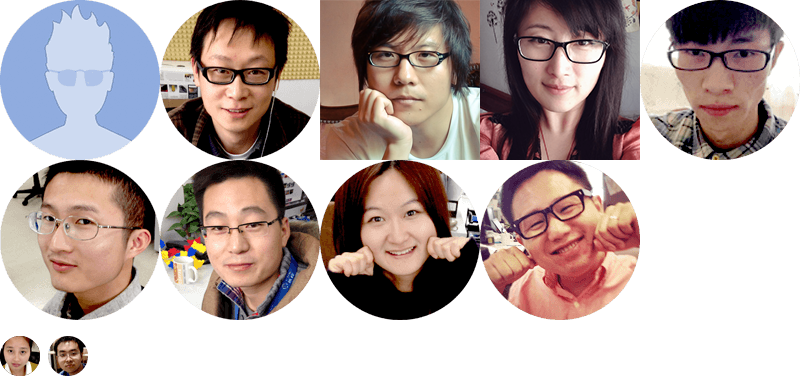
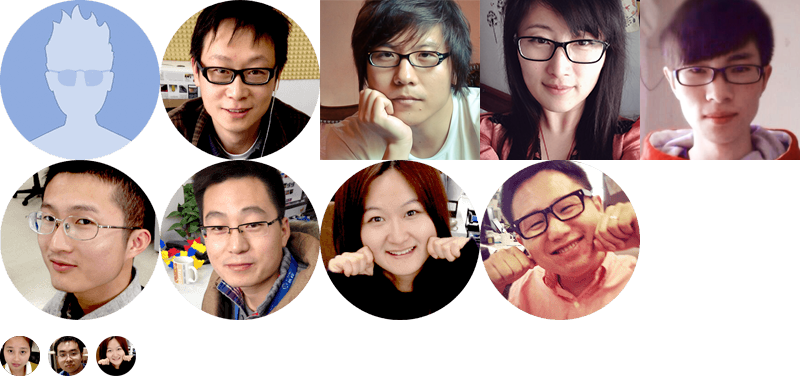
样式：About头像微调

Changed region(s): [[0.7812, 0.0, 1.0, 0.4375], [0.0938, 0.875, 0.1875, 1.0]]

diff --git a/app/styles/intro.css b/app/styles/intro.css
@@ -32,10 +32,10 @@ a:hover { color: rgba(255,255,255,1); }
 .tryonline { background: #ffdd6c; }
 .getmobile  { background: #eb6c59; }
 .online h3, .mobile h3 { position: absolute; top: 50%; -webkit-transform: translateY(-50%); transform: translateY(-50%); padding: 0 10%; font-size: 48px; font-weight: 100; color: rgba(255,255,255,0.5); text-align: center; }
-.online h3 em, .mobile h3 em { display: block; font-style: normal; font-size: 72px; color: rgba(255,255,255,1); }
-.online .pic-online, .mobile .pic-mobile { position: absolute; left: 50%; top: 50%; -webkit-transform: translateY(-50%); transform: translateY(-50%); background-position: center center; background-repeat: no-repeat; }
-.online .pic-online { width: 753px; height: 100%; background-image: url(../images/intro-online.png); background-size: 753px auto; }
-.mobile .pic-mobile { width: 640px; height: 100%; background-image: url(../images/intro-mobile.png); background-size: 640px auto; }
+.online em, .mobile em { display: block; font-style: normal; font-size: 72px; color: rgba(255,255,255,1); }
+.online .pic-online, .mobile .pic-mobile { position: absolute; left: 50%; top: 50%; -webkit-transform: translateY(-50%); transform: translateY(-50%); width: 50%; height: 100%; background-position: left center; background-repeat: no-repeat; }
+.online .pic-online { background-image: url(../images/intro-online.png); background-size: 753px auto; }
+.mobile .pic-mobile { background-image: url(../images/intro-mobile.png); background-size: 640px auto; }
 
 /* About */
 .about { padding: 0 10%; background-color: #45bc7a; }
@@ -43,6 +43,7 @@ a:hover { color: rgba(255,255,255,1); }
 .team-member li { float: left; width: 300px; padding: 10px 0; }
 .team-member .person-avatar { display: inline-block; vertical-align: middle; width: 80px; height: 80px; background-color: #ddd; background-image: url(../images/un-team.png); background-repeat: no-repeat; background-size: 400px auto; border-radius: 50%; border: 2px solid #fff; }
 .team-member .person-info { display: inline-block; vertical-align: middle; margin-left: 20px; }
+.team-member li:nth-child(1) .person-avatar { background-position: -240px -80px; }
 .team-member li:nth-child(2) .person-avatar { background-position: -80px 0; }
 .team-member li:nth-child(3) .person-avatar { background-position: -160px 0; }
 .team-member li:nth-child(4) .person-avatar { background-position: -240px 0; }
@@ -50,17 +51,12 @@ a:hover { color: rgba(255,255,255,1); }
 .team-member li:nth-child(6) .person-avatar { background-position: 0 -80px; }
 .team-member li:nth-child(7) .person-avatar { background-position: -80px -80px; }
 .team-member li:nth-child(8) .person-avatar { background-position: -160px -80px; }
-.team-member li:nth-child(1) .person-avatar { background-position: -240px -80px; }
-.person-name { font-size: 20px; }
-.person-job { font-size: 12px; }
-.team-nonmember { margin-top: 30px; }
-.team-title { margin-bottom: 30px; font-size: 20px; }
-.team-nonmember li { padding: 5px 0; }
-.team-nonmember .person-avatar { display: inline-block; width: 40px; height: 40px; margin-right: 20px; background-color: #ddd; background-image: url(../images/un-team.png); background-repeat: no-repeat; border-radius: 50%; border: 1px solid #fff; vertical-align: middle; }
-.team-nonmember li:nth-child(2) .person-avatar { background-position: 0 -336px; }
-.team-nonmember li:nth-child(1) .person-avatar { background-position: -48px -336px; }
-.team-nonmember .person-name { display: inline-block; width: 100px; margin-right: 10px; font-size: 16px; }
-.team-nonmember .person-job { margin-right: 10px; }
+.team-member .person-name { font-size: 20px; }
+.team-member .person-job { font-size: 12px; }
+.team-nonmember { padding-left: 104px; line-height: 16px; overflow: hidden; }
+.team-nonmember dt { float: left; width: 80px; margin-left: -104px; padding: 5px 0; font-size: 20px; text-align: center; }
+.team-nonmember dd { float: left; margin-right: 20px; padding: 5px 0; }
+.team-nonmember .person-name { font-size: 16px; }
 
-.donate { padding: 2em 0; font-size: 24px; }
+.donate { position: absolute; bottom: 0; padding: 2em 0; font-size: 24px; }
 .donate a { font-size: 20px; }

diff --git a/app/intro.html b/app/intro.html
@@ -54,7 +54,7 @@
 			<div class="person-avatar"></div>
 			<div class="person-info">
 				<div class="person-name">Lei Kuo</div>
-				<div class="person-job">Project Manager/Team Leader</div>
+				<div class="person-job">Project Manager / Team Leader</div>
 			</div>
 		</li>
 		<li>
@@ -69,7 +69,7 @@
 			<div class="person-avatar"></div>
 			<div class="person-info">
 				<div class="person-name">Lily Xue</div>
-				<div class="person-job">HTML/CSS Developer/UX/UI</div>
+				<div class="person-job">HTML/CSS Developer / UX / UI</div>
 				<i class="fa fa-weibo"></i> <a href="http://weibo.com/lilyxue" target="_blank">点头猪</a>
 			</div>
 		</li>
@@ -95,32 +95,24 @@
 				<div class="person-job">Android Developer</div>
 			</div>
 		</li>
-		<li>
-			<div class="person-avatar"></div>
-			<div class="person-info">
-				<div class="person-name">Flea</div>
-				<div class="person-job">Design Consultant</div>
-				<i class="fa fa-weibo"></i> <a href="http://weibo.com/catflea" target="_blank">iflea</a>
-			</div>
-		</li>
 	</ul>
-	<div class="team-nonmember">
-		<div class="team-title">Credits:</div>
-		<ul>
-			<li>
-				<span class="person-avatar"></span>
-				<strong class="person-name">Yanghe Liu</strong>
-				<i class="fa fa-weibo"></i> <a href="http://weibo.com/mewjerry" target="_blank">不编程不舒服斯基</a>
-			</li>
-			<li>
-				<span class="person-avatar"></span>
-				<strong class="person-name">Xianqin Zhu</strong>
-				<i class="fa fa-weibo"></i> <a href="http://weibo.com/u/1867165890" target="_blank">happy奔向未来</a>
-			</li>
-		</ul>
-	</div>
+	<dl class="team-nonmember">
+		<dt>Credits:</dt>
+		<dd>
+			<span class="person-name">Yanghe Liu</span>
+			<a href="http://weibo.com/mewjerry" title="不编程不舒服斯基" class="fa fa-weibo" target="_blank"></a>
+		</dd>
+		<dd>
+			<span class="person-name">Flea</span>
+			<a href="http://weibo.com/catflea" title="iflea" class="fa fa-weibo" target="_blank"></a>
+		</dd>
+		<dd>
+			<span class="person-name">Xianqin Zhu</span>
+			<a href="http://weibo.com/u/1867165890" title="happy奔向未来" class="fa fa-weibo" target="_blank"></a>
+		</dd>
+	</dl>
 	<div class="donate">
-		<i class="fa fa-coffee"></i> <a href="https://qr.alipay.com/ap27zqsxo3v5q61z1f" target="_blank">Buy me a coffee!</a> (੭ु๑‾᷄ ⁻̫ ‾᷅)੭ु⁾⁾
+		<i class="fa fa-coffee"></i> <a href="https://qr.alipay.com/ap27zqsxo3v5q61z1f" title="求咖灰~~~" target="_blank">Buy me a coffee!</a> (੭ु๑‾᷄ ⁻̫ ‾᷅)੭ु⁾⁾
 	</div>
 </div>
 <script src="http://code.jquery.com/jquery-1.11.0.min.js"></script>
